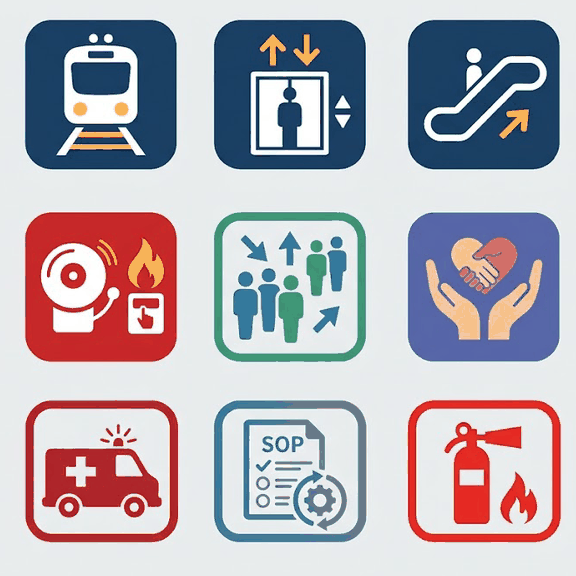
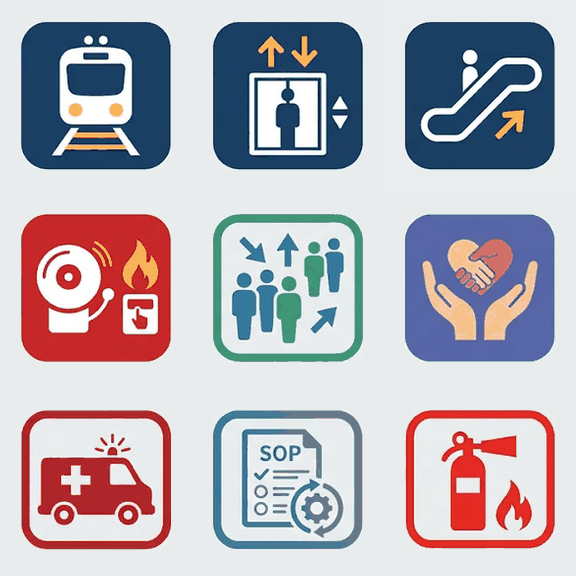
Add files via upload
station-assistant-mobile-github-v5.20.5

diff --git a/index.html b/index.html
@@ -453,7 +453,7 @@
   }
   @media (max-width:520px){.procedure-card-grid{grid-template-columns:1fr 1fr;}}
 
-  /* v5.20.4 mobile shell: real-device full-screen PWA, preserve iPhone safe areas */
+  /* v5.20.5 mobile shell: real-device full-screen PWA, preserve iPhone safe areas */
   @media (max-width:899px){
     html,body{width:100%;height:100%;overflow:hidden;overscroll-behavior:none;}
     body{display:block!important;margin:0!important;padding:0!important;background:var(--bg)!important;min-height:100vh!important;}
@@ -478,7 +478,7 @@
   .event-participant-list{display:grid;gap:0}.event-person-card{display:grid!important;grid-template-columns:minmax(86px,130px) minmax(0,1fr);align-items:start!important;gap:10px!important;padding:10px 4px!important;border:0!important;border-bottom:.5px solid var(--border)!important;border-radius:0!important}.event-person-card:last-child{border-bottom:0!important}.event-person-detail{display:flex;gap:10px;flex-wrap:wrap;min-width:0}.event-person-detail span{white-space:normal!important;overflow:visible!important;text-overflow:clip!important}.event-person-location{color:var(--text-muted)!important}.event-person-edit-title{display:none;font-weight:750;color:var(--accent-text)}.event-more{display:none}.modal-close-btn{border:0;background:none;font-size:18px;min-width:44px;min-height:44px}
 
 
-  /* v5.20.4 mobile UX */
+  /* v5.20.5 mobile UX */
   @media(max-width:899px){
     .modal-overlay{overflow:hidden!important}.modal-sheet{max-width:100%!important;overflow:hidden!important}.modal-body{overflow-x:hidden!important;max-width:100%!important;box-sizing:border-box!important}
     .pdf-reader-shell .modal-header{padding-top:calc(10px + env(safe-area-inset-top))!important;padding-left:max(14px,env(safe-area-inset-left))!important;padding-right:max(10px,env(safe-area-inset-right))!important;min-height:calc(54px + env(safe-area-inset-top))!important}.pdf-reader-shell .modal-header>span{min-width:0;white-space:nowrap;overflow:hidden;text-overflow:ellipsis;font-size:13px!important}.pdf-reader-shell #sop-pdf-close{min-width:44px!important;min-height:44px!important;padding:0!important;margin-left:6px!important;display:grid!important;place-items:center!important}
@@ -517,7 +517,7 @@
   .search-page-group{margin-left:0;margin-right:0}
 
 
-  /* v5.20.4 iPhone 全頁面版面校正：safe-area 只計算一次，底部導覽不再漂浮或遮住內容 */
+  /* v5.20.5 iPhone 全頁面版面校正：safe-area 只計算一次，底部導覽不再漂浮或遮住內容 */
   @media(max-width:899px){
     :root{--mobile-nav-h:68px;--mobile-top-h:56px;}
     html,body{width:100%;height:100%;height:100dvh;overflow:hidden!important;}
@@ -553,7 +553,7 @@
 #phone.data-modal-open #content{padding-bottom:0!important;}
 
 
-  /* v5.20.4 mobile event layout + category focus regression fix */
+  /* v5.20.5 mobile event layout + category focus regression fix */
   @media(max-width:899px){
     /* Event summary: subject owns the full width; actions are secondary and sit below. */
     .event-summary-card .row.between{display:grid!important;grid-template-columns:minmax(0,1fr)!important;gap:8px!important;align-items:start!important}
@@ -589,6 +589,92 @@
     .event-body{font-size:14px!important;line-height:1.62!important}
   }
 
+  /* v5.20.5 mobile event polish + icon-picker normalization */
+  @media(max-width:899px){
+    /* Event summary secondary actions: visually smaller than content. */
+    .event-summary-card .row.between>div:last-child button{
+      min-width:44px!important;
+      min-height:40px!important;
+      height:40px!important;
+      padding:4px 10px!important;
+      font-size:13px!important;
+      line-height:1!important;
+      border-radius:10px!important;
+    }
+
+    /* Event detail cards share one vertical rhythm. */
+    .event-detail-priority{
+      padding:18px 16px 16px!important;
+    }
+    .event-detail-priority .panel-title{
+      margin:0 0 10px!important;
+    }
+    .event-detail-priority .panel-title+.event-body{
+      margin-top:0!important;
+      padding-bottom:0!important;
+    }
+
+    /* Event checks: name full width; time + duration + result share one line when possible. */
+    .event-check-view{
+      grid-template-columns:auto auto minmax(0,1fr) auto!important;
+      column-gap:8px!important;
+      row-gap:8px!important;
+      padding:0!important;
+      border-bottom:.5px solid var(--border)!important;
+    }
+    .event-check-view:last-child{border-bottom:0!important}
+    .event-check-view>b{
+      grid-column:1/-1!important;
+      margin:0!important;
+      font-size:14px!important;
+      line-height:1.5!important;
+    }
+    .event-check-view>span:nth-child(2){
+      grid-column:1!important;
+      white-space:nowrap!important;
+      font-size:13.5px!important;
+    }
+    .event-check-view>.event-check-duration{
+      grid-column:2!important;
+      white-space:nowrap!important;
+      font-size:13.5px!important;
+      text-align:left!important;
+      padding:0!important;
+    }
+    .event-check-view>.event-check-result{
+      grid-column:4!important;
+      justify-self:end!important;
+      white-space:nowrap!important;
+      font-size:13px!important;
+    }
+
+    /* Participant editor: both paired rows use the same 40/60 split. */
+    .event-person-row{
+      grid-template-columns:minmax(0,2fr) minmax(0,3fr)!important;
+      gap:9px 8px!important;
+    }
+    .event-person-row>.event-person-edit-title,
+    .event-person-row>label:first-of-type{
+      grid-column:1/-1!important;
+    }
+
+    /* Icon picker: equal visual inset and subtle selected state. */
+    .procedure-icon-choice{
+      padding:7px!important;
+      border:1px solid var(--border)!important;
+      background:#fff!important;
+      box-shadow:none!important;
+    }
+    .procedure-icon-choice.selected{
+      border:1px solid #7db7e8!important;
+      background:#f2f8fd!important;
+      box-shadow:0 0 0 1px rgba(32,120,190,.10) inset!important;
+    }
+    .procedure-png-icon{
+      border-radius:9px!important;
+    }
+  }
+
 </style>
 </head>
 <body>
@@ -605,12 +691,12 @@
     <button class="tab-btn" data-tab="personnel"><span class="icon">♙</span>事件/人員</button>
     <button class="tab-btn" data-tab="library"><span class="icon">▤</span>資料管理</button>
     <button class="tab-btn" data-tab="settings"><span class="icon">⚙</span>設定</button>
-    <div class="desktop-version">手機 PWA 測試版 v5.20.4 · 資料僅存本機</div>
+    <div class="desktop-version">手機 PWA 測試版 v5.20.5 · 資料僅存本機</div>
   </div>
 </div>
 
 <script>
-/* v5.20.4 2026-09-10：
+/* v5.20.5 2026-09-10：
    1) 修正文件名稱命中會把整份文件所有段落都算命中的問題；正文命中頁／段落只計實際符合；
    2) 搜尋段落點入 PDF 前以該段正文重新驗證實體 PDF 頁，避免搜尋索引與原始 PDF 定位錯位；
    3) 常用程序待確認閱讀器新增「確認頁碼正確」，確認後清除提醒並保存新版正文快照；
@@ -3518,7 +3604,7 @@ function eventDurationText(start,end){
   const a=eventSeconds(start),b=eventSeconds(end);if(a==null||b==null)return '—';
   let d=b-a;if(d<0)d+=86400;
   const h=Math.floor(d/3600),m=Math.floor((d%3600)/60),sec=d%60;
-  return [h?`${h}時`:'' ,m?`${m}分`:'' ,`${sec}秒`].filter(Boolean).join(' ');
+  return [h?`${h}時`:'' ,m?`${m}分`:'' ,`${sec}秒`].filter(Boolean).join('');
 }
 function renderEventChecksEditor(checks){
   return `<div class="event-checks" id="event-checks">${checks.map((c,i)=>`<div class="event-check-row" data-check-row="${i}"><input data-check-name="${i}" value="${escapeHtml(c.name||'')}" placeholder="檢核項目，例如：火警作動至廣播隔離間隔"><input data-check-start="${i}" value="${escapeHtml(c.start||'')}" placeholder="08:52:01"><input data-check-end="${i}" value="${escapeHtml(c.end||'')}" placeholder="08:56:13"><span class="event-check-duration">${escapeHtml(eventDurationText(c.start,c.end))}</span><select data-check-result="${i}"><option value="">未判定</option><option value="符合" ${c.result==='符合'?'selected':''}>符合</option><option value="不符合" ${c.result==='不符合'?'selected':''}>不符合</option></select><button class="danger-text" data-check-del="${i}" title="刪除">✕</button></div>`).join('')}</div><button class="secondary" id="event-check-add" style="margin-top:8px">＋ 增加檢核</button>`;
@@ -4084,7 +4170,7 @@ function renderSettings(){
       <div class="card settings-card" id="settings-search"><p class="panel-title">搜尋設定</p><p class="panel-note">管理智慧搜尋詞庫、同義詞及查無結果紀錄。</p><span class="badge">${cache.synonymGroups.length} 組詞庫</span></div><div class="card settings-card" id="settings-categories"><p class="panel-title">常用程序分類</p><p class="panel-note">自訂分類名稱、捷運作業 SVG 圖示、識別色與順序。</p><span class="badge">${getProcedureCategories().length} 個分類</span></div>
       <div class="card settings-card" id="settings-data"><p class="panel-title">資料與儲存</p><p class="panel-note">完整備份、還原與跨裝置資料移轉。</p><span class="badge">最近備份：${escapeHtml(lastBackup)}</span></div>
       <div class="card settings-card" id="settings-history"><p class="panel-title">搜尋歷史</p><p class="panel-note">目前保留最近 ${getSearchHistory().length} 筆搜尋，可在此清除。</p><button class="secondary" id="settings-clear-history">清除搜尋歷史</button></div>
-      <div class="card settings-card" id="settings-version"><p class="panel-title">版本資訊</p><p class="panel-note">資料維持瀏覽器本機離線。</p><dl class="version-info"><dt>程式版本</dt><dd>v5.20.4 測試版</dd><dt>基準版本</dt><dd>手機版 v5.19.0</dd><dt>更新日期</dt><dd>2026-09-10</dd><dt>資料格式</dt><dd>IndexedDB v4</dd><dt>本次更新</dt><dd>手機事件版面與分類操作修正：分類篩選不再喚出鍵盤；事件摘要、事件檢核、參與人員編輯與時間軸改為手機友善排版；檢討與改善事項調整卡片內文字垂直留白。</dd></dl></div>
+      <div class="card settings-card" id="settings-version"><p class="panel-title">版本資訊</p><p class="panel-note">資料維持瀏覽器本機離線。</p><dl class="version-info"><dt>程式版本</dt><dd>v5.20.5 測試版</dd><dt>基準版本</dt><dd>手機版 v5.19.0</dd><dt>更新日期</dt><dd>2026-09-10</dd><dt>資料格式</dt><dd>IndexedDB v4</dd><dt>本次更新</dt><dd>手機事件細節版面修正：OP／修改改為次要小按鈕；事件檢核與檢討卡片統一內距；檢核起訖時間、間隔與結果同列呈現；參與人員編輯兩列統一為 40%／60%；圖示選擇器統一視覺留白並弱化選取框。</dd></dl></div>
     </div>`;
   document.getElementById('settings-search').onclick=openSynonymManager;
   document.getElementById('settings-data').onclick=openDataMgmt;
@@ -4149,7 +4235,7 @@ function openDataMgmt(){
     <div class="modal-header"><span style="font-weight:500;">資料管理</span>
       <button id="dm-close" class="modal-close-btn" aria-label="關閉">✕</button></div>
     <div class="modal-body">
-      <p class="tiny-muted" style="margin-top:0;">手機 PWA 測試版 v5.20.4・2026.09.10</p>
+      <p class="tiny-muted" style="margin-top:0;">手機 PWA 測試版 v5.20.5・2026.09.10</p>
       <p class="muted">「工作資料」包含常用程序、分類名稱／顏色／順序、程序圖示、通告、事件與人員，可手動傳到另一台裝置匯入；各裝置資料不會自動同步。</p>
       <button class="secondary" id="dm-transfer-export" style="width:100%;margin-bottom:10px;">匯出工作資料</button>
       <button class="secondary" id="dm-transfer-import" style="width:100%;margin-bottom:18px;">匯入工作資料</button>

diff --git a/sw.js b/sw.js
@@ -1,4 +1,4 @@
-const CACHE_NAME = 'station-assistant-mobile-github-v5.20.4';
+const CACHE_NAME = 'station-assistant-mobile-github-v5.20.5';
 const APP_SHELL = [
   './',
   './index.html',

diff --git a/CHANGELOG.md b/CHANGELOG.md
@@ -1,3 +1,12 @@
+## v5.20.5｜2026-09-10
+- 事件摘要 OP／修改按鈕縮小為次要操作層級。
+- 事件檢核與「檢討與改善事項」卡片統一上、下內距與標題／內容間距。
+- 手機事件檢核改為「起訖時間＋間隔＋結果」同列優先呈現，間隔文字改為如「13分12秒」。
+- 參與人員編輯欄位固定為 40%／60%：身分／姓名、事件內簡稱／初始位置（狀態）。
+- 圖示選擇器統一 9 個 PNG 圖示的視覺留白，選取狀態改為較細的淡藍框。
+- 保留分類篩選不喚出鍵盤、常用程序人工排序及既有資料／PDF／搜尋邏輯。
+- Service Worker 快取版本同步更新為 v5.20.5。
+
 ## v5.20.4｜2026-09-10
 
 - 修正作業查詢點選「分類篩選」後 iPhone 搜尋框重新取得焦點、意外叫出鍵盤。

diff --git a/README.md b/README.md
@@ -1,3 +1,9 @@
+## v5.20.5 手機事件細節介面
+- 事件檢核與檢討卡片統一內距。
+- 參與人員編輯採一致 40%／60% 雙欄。
+- OP／修改縮小為次要操作。
+- 圖示選擇器統一視覺留白並弱化選取框。
+
 # 站務工作助手：手機 GitHub Pages PWA 測試版 v5.13.0
 
 這個版本供手機透過 GitHub Pages 安裝使用。手機採單欄及底部分頁操作；程式、PDF與Excel解析套件及介面資源都包含在本資料夾內，不使用外部CDN、雲端資料庫、分析服務或後端API。公司電腦請改用另外提供的電腦版HTML，不要直接雙擊本資料夾的 `index.html`。
